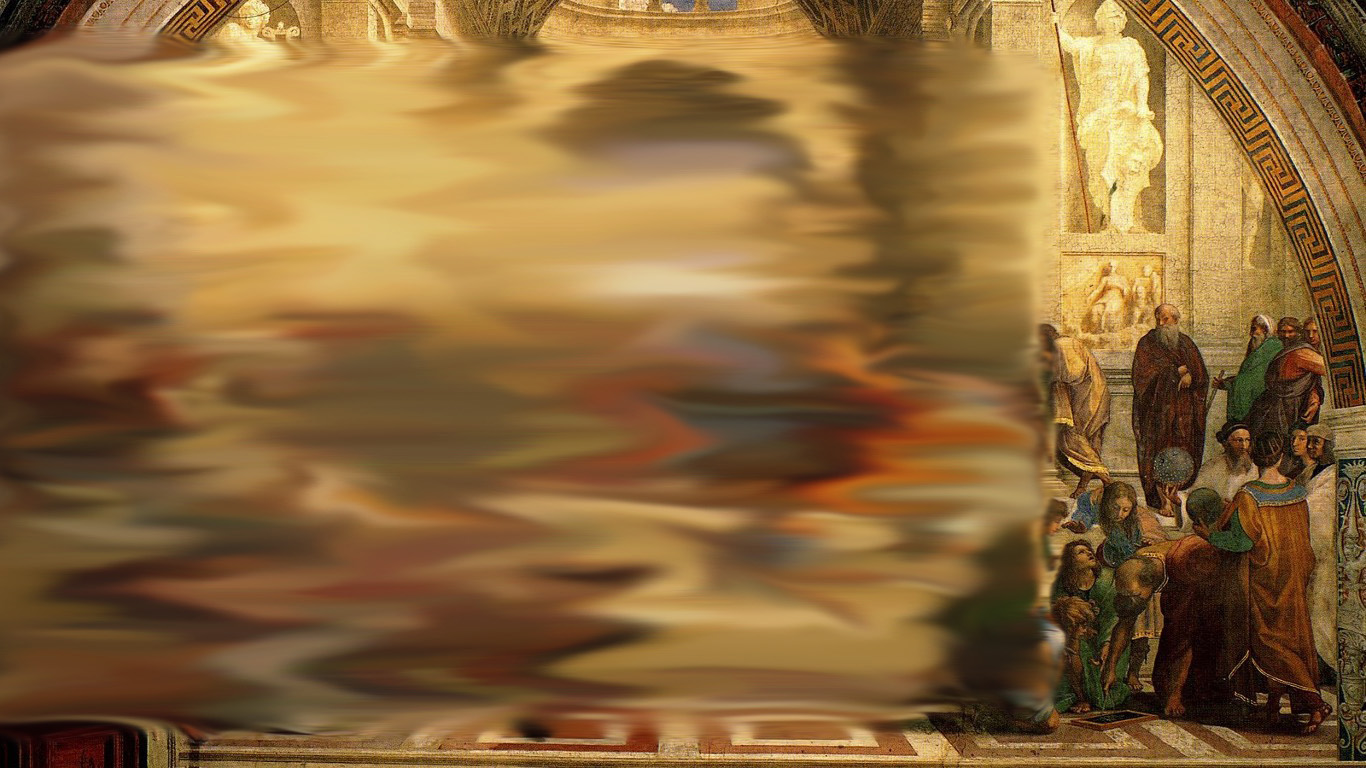
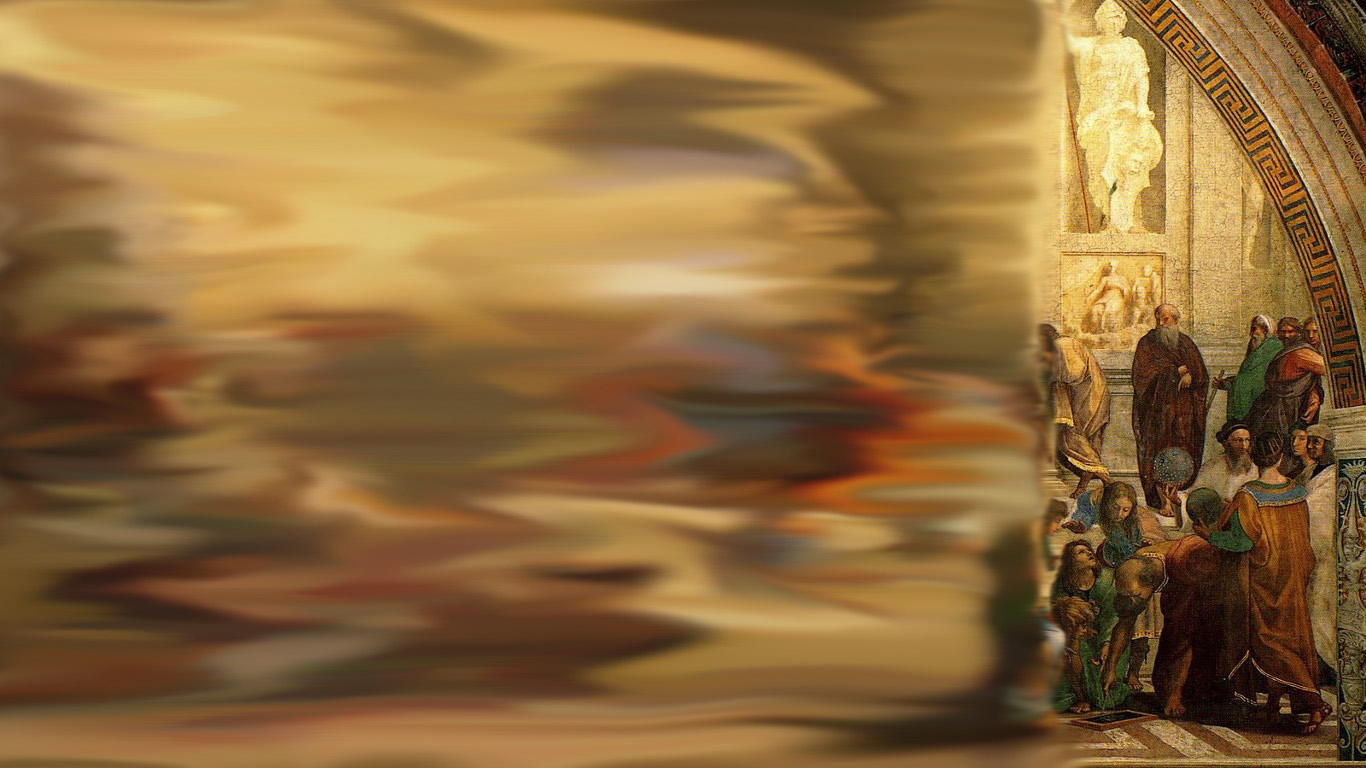
y

Changed region(s): [[0.0, 0.0, 0.7994, 0.25], [0.0, 0.7188, 0.7994, 1.0]]

diff --git a/history.html b/history.html
@@ -21,7 +21,9 @@
 
       <h2> Introduction </h2>
 
-      <p> The renaissance was a fervent period of the European culture and had a big role in European history. The word Renaissance actually means “rebirth” in French which is the cause of this whole literal period. The renaissance started in Florence, Italy and took place from 14th century to the 17th century, lasting a whole of 3 decades. This era has a great history about art, literature and philosophy. During this literal period, a cultural movement called Humanism began to rise in Italy. Among its many concepts, humanism promoted the idea that the man was in the center of his own universe, and that people should embrace human achievements in different ways such as art and literature. </p>
+      <p> The renaissance was a fervent period of the European culture and had a big role in European history. The word Renaissance actually means “rebirth” in French which is the cause of this whole literal period. The renaissance started in Florence, Italy and took place from 14th century to the 17th century, lasting a whole of 3 decades. This era has a great history about art, literature and philosophy. During this literal period, a cultural movement called Humanism began to rise in Italy. Among its many concepts, humanism promoted the idea that the man was in the center of his own universe, and that people should embrace human achievements in different ways such as art and literature. <h2> What started it all? </h2> <p>
+
+      <p> It all began around the year 1350 and ended at the start of the 16th century. A small cultural movement took place in a city called Florence located in Italy, but later on spread throughout Europe. This time period is well known for its changes in art, literature and other things. During the time that the renaissance was taking place in Italy, the rest of Europe experienced the Medieval Times, more commonly known as the Dark Ages. The Dark Ages was one of the worst time periods in history, the main causes being war, famine, and a lot of bad diseases such as the Bubonic Plague, also known as “The Black Death”. It was during this time period that the Humanists emerged. These people had a different view of the world and saw things from a different perspective. They believed that people had important contributions to make the world a better place. Most of their ideas came from the ancient Greek and Romans, which inspired their new ideas to become even better. <p>
 
      </div>
 
@@ -31,7 +33,7 @@
       <a href="Technology&Science.html"> Technology & Science </a>
       <a href="oscar.html"> Government & Monarchies </a>
       <a href="societal life.html"> Societal Life </a>
-      <a href="index.html"> Home 🏠 </a>
+      <a href="index.html"> Home </a>
     </div>
 
     </body>

diff --git a/history.css b/history.css
@@ -54,21 +54,22 @@ body{
   border-radius: 10px;
   text-align: center;
   font-family: CharpentierRenRed-Oblique;
-  background-image: url('historybackgrounds.jpg');
+  background-image: url('historybackgroundss.jpg');
 }
 
 #body h2{
   font-size: 40px;
-  margin-top: 10px;
+  margin-top: 15px;
   margin-right: 170px;
 }
 
 #body p{
-  font-size: 20px;
+  font-size: 22px;
   float: left;
-  margin-top: 10px;
+  margin-top: 5px;
   margin-right: 250px;
   margin-left: 30px;
+  margin-bottom: 5px;
 }
 
 #footer{
